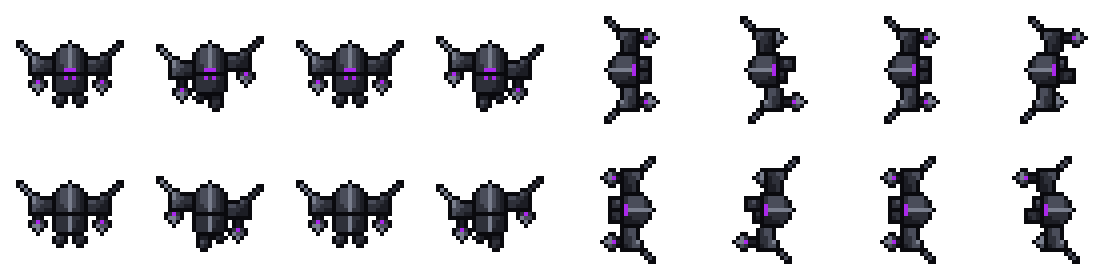
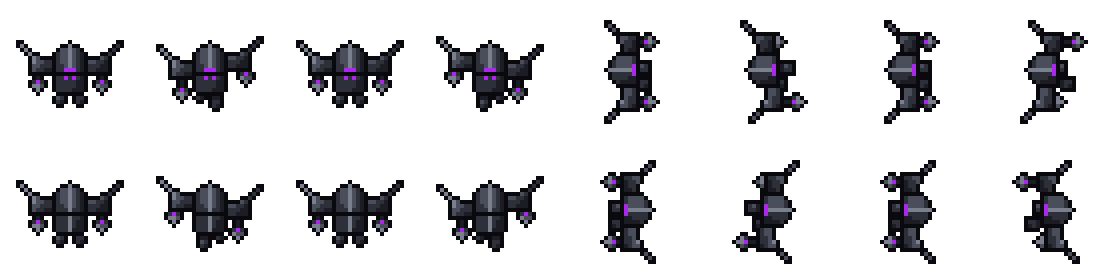
Mecha top-down test: side on, the far shoulder is a row shorter and the feet sit toward the near side
Claude-Session: https://claude.ai/code/session_01TQ4qhujdUDh59Vp7VzLUu7

diff --git a/docs/art/mecha/crew-topdown-test/tools/mech.py b/docs/art/mecha/crew-topdown-test/tools/mech.py
@@ -192,8 +192,11 @@ STEP_UP_2 = grid([
 # --- Facing right --------------------------------------------------------------------------------------------------
 # The front view turned a quarter: one shoulder plate above the helm and one below, the spikes sweeping back and out,
 # the claws pointing straight ahead, the ridge running front to back and the visor on the helm's front edge.
+# It is not a strict quarter turn (heromedel, 2026-11-11): his left shoulder, the far one, is a row shorter where it
+# meets the helm, and his feet sit toward the near side, the left foot a row down and the right foot two.
 
 STAND_RIGHT = grid([         # both feet show ahead of the helm, so he is not so thin (heromedel, 2026-11-11)
+    ".....................",
     "....oo...............",
     "....oao..............",
     ".....oao.............",
@@ -202,17 +205,16 @@ STAND_RIGHT = grid([         # both feet show ahead of the helm, so he is not so
     ".......oannkokveao...",
     "........onnkoonao....",
     "........onkko.oo.....",
-    "........onkko........",
     ".......oooooo........",
-    "......oaaaanoooo.....",
-    ".....onaaaanoano.....",
-    ".....onaaaavonno.....",
-    "....oeeeeeevoooo.....",
-    ".....onnnnnvonno.....",
-    ".....onnnnkkonko.....",
-    "......onkkkkoooo.....",
-    ".......oooooo........",
-    "........oaano........",
+    "......oaaaano........",
+    ".....onaaaanoooo.....",
+    ".....onaaaavoano.....",
+    "....oeeeeeevonno.....",
+    ".....onnnnnvoooo.....",
+    ".....onnnnkkoooo.....",
+    "......onkkkkonno.....",
+    ".......oooooonko.....",
+    "........oaanoooo.....",
     "........oaano.oo.....",
     "........oannooneo....",
     ".......oeannokveeo...",
@@ -223,6 +225,7 @@ STAND_RIGHT = grid([         # both feet show ahead of the helm, so he is not so
     "....oo...............",
 ], 21)
 STEP_RIGHT = grid([         # the near shoulder and claw swing forward, the far ones back; the far foot swings forward
+    ".....................",
     "...oo................",
     "...oao...............",
     "....oao..............",
@@ -231,17 +234,16 @@ STEP_RIGHT = grid([         # the near shoulder and claw swing forward, the far 
     "......oannkoeao......",
     ".......onnkoao.......",
     ".......onkkoo........",
-    ".......onkko.........",
     ".......oooooo........",
-    "......oaaaanooooo....",
-    ".....onaaaanokano....",
-    ".....onaaaavoknno....",
-    "....oeeeeeevooooo....",
-    ".....onnnnnvono......",
-    ".....onnnnkkoko......",
-    "......onkkkkooo......",
-    ".......oooooo........",
-    ".........oaano.......",
+    "......oaaaano........",
+    ".....onaaaanooooo....",
+    ".....onaaaavokano....",
+    "....oeeeeeevoknno....",
+    ".....onnnnnvooooo....",
+    ".....onnnnkkooo......",
+    "......onkkkkono......",
+    ".......ooooooko......",
+    ".........oaanoo......",
     ".........oaano..oo...",
     ".........oannoooneo..",
     "........oeannokkveeo.",
@@ -252,6 +254,7 @@ STEP_RIGHT = grid([         # the near shoulder and claw swing forward, the far 
     ".....oo..............",
 ], 21)
 STEP_RIGHT_2 = grid([
+    ".....................",
     ".....oo..............",
     ".....oao.............",
     "......oao............",
@@ -260,17 +263,16 @@ STEP_RIGHT_2 = grid([
     "........oannkokkveao.",
     ".........onnkooonao..",
     ".........onkko..oo...",
-    ".........onkko.......",
     ".......oooooo........",
-    "......oaaaanooo......",
-    ".....onaaaanoao......",
-    ".....onaaaavono......",
-    "....oeeeeeevooooo....",
-    ".....onnnnnvoknno....",
-    ".....onnnnkkoknko....",
-    "......onkkkkooooo....",
-    ".......oooooo........",
-    ".......oaano.........",
+    "......oaaaano........",
+    ".....onaaaanooo......",
+    ".....onaaaavoao......",
+    "....oeeeeeevono......",
+    ".....onnnnnvooo......",
+    ".....onnnnkkooooo....",
+    "......onkkkkoknno....",
+    ".......ooooooknko....",
+    ".......oaano.oooo....",
     ".......oaanoo........",
     ".......oannoeo.......",
     "......oeannoeeo......",

diff --git a/docs/art/mecha/crew-topdown-test/README.md b/docs/art/mecha/crew-topdown-test/README.md
@@ -48,6 +48,9 @@ How the other views follow from it:
 - Facing right is the front view turned a quarter: one shoulder plate above the helm and one below, the spikes
   sweeping back and out, the claws pointing straight ahead, the visor on the helm's front edge.
 - Standing side on, both feet show ahead of the helm, so he is not so thin (heromedel, 2026-11-11).
+- Side on is not a strict quarter turn (heromedel, 2026-11-11): his left shoulder, the far one at the top when he
+  faces right, is a row shorter where it meets the helm, and his feet sit toward the near side, the left foot a
+  row down and the right foot two.
 - **The walk swings (heromedel, 2026-11-11).** The first walks lengthened and shortened the arms and legs, which
   read as pistons. Now every part keeps its shape and moves as a piece: a shoulder plate swings a row forward with
   its spike and claw, the other swings a row back and its claw tucks up under it, and the foot opposite the forward
